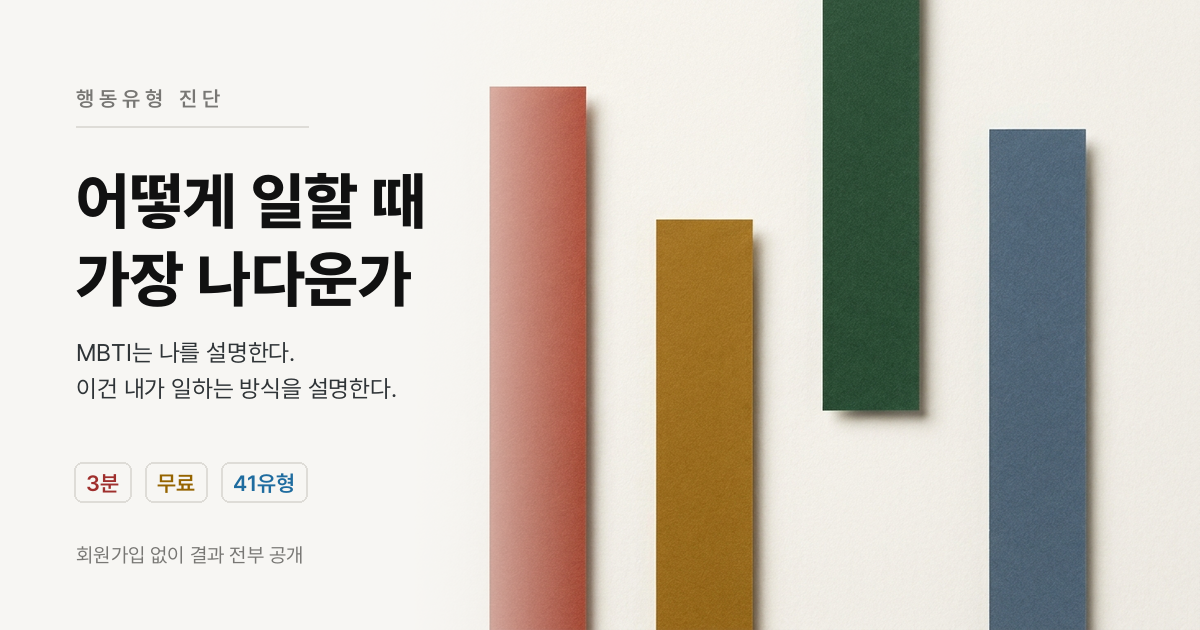
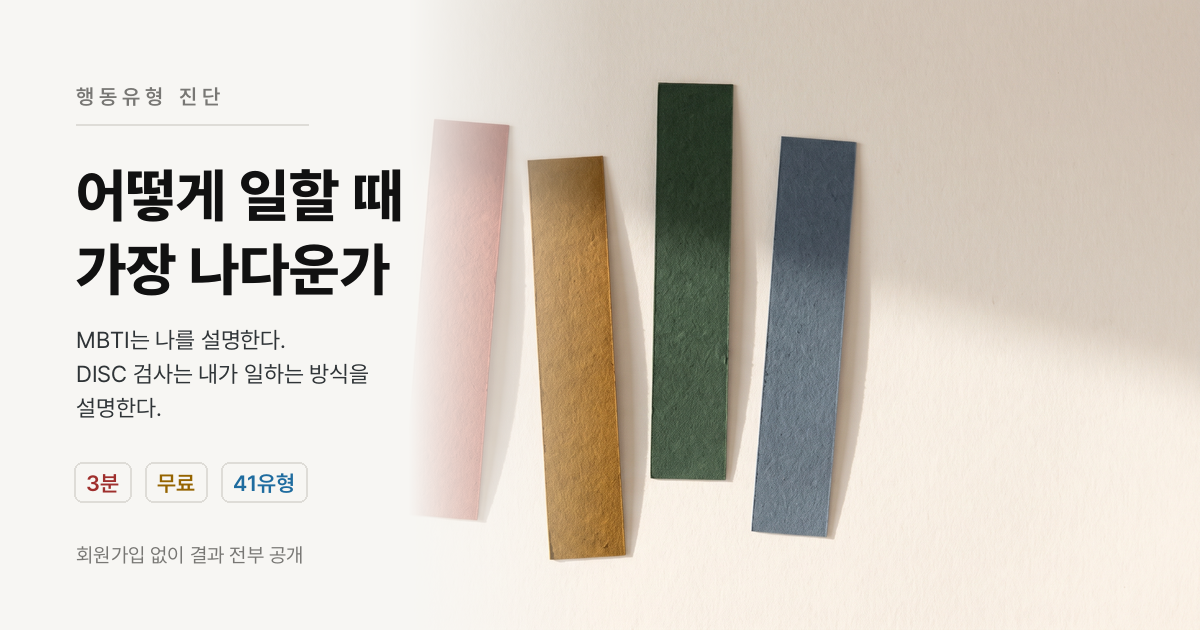
v3 — 헤드라인 수정 · 히어로/요인 이미지 5종 · 모바일 레이아웃

diff --git a/index.html b/index.html
@@ -25,7 +25,7 @@
   --Dbg:#FDEBEC; --Ibg:#FBF3DB; --Sbg:#EDF3EC; --Cbg:#E1F3FE;
   --sh:0 0 0 1px rgba(0,0,0,.05),0 1px 1px -.5px rgba(0,0,0,.06),0 3px 3px -1.5px rgba(0,0,0,.06),0 6px 6px -3px rgba(0,0,0,.06),0 12px 12px -6px rgba(0,0,0,.05);
 }
-*{box-sizing:border-box;margin:0;padding:0;-webkit-tap-highlight-color:transparent}
+*{box-sizing:border-box;margin:0;padding:0;-webkit-tap-highlight-color:transparent;word-break:keep-all}
 html{scroll-behavior:smooth}
 body{background:var(--canvas);color:var(--ink);padding:0 20px 90px;
   font-family:Pretendard,-apple-system,BlinkMacSystemFont,system-ui,sans-serif;
@@ -148,12 +148,60 @@ ul.pts li::before{content:"";width:5px;height:5px;border-radius:50%;background:v
 canvas#shot{display:none}
 .pr{display:none}
 
+/* ── 이미지 ── */
+.hero{margin:34px 0 0}
+.hero>img{width:100%;height:auto;display:block;border-radius:14px;border:1px solid var(--line);
+  background:#EFEDE8;aspect-ratio:16/9;object-fit:cover}
+.hero figcaption{margin-top:11px;font-size:12px;color:var(--sub);letter-spacing:-.01em}
+.rband{position:relative;margin:0 0 22px;border-radius:12px;overflow:hidden;
+  border:1px solid var(--line);background:#EFEDE8;aspect-ratio:21/9}
+.rband img{width:100%;height:100%;object-fit:cover;display:block}
+.rbandtag{position:absolute;left:16px;bottom:14px;background:rgba(255,255,255,.92);
+  border:1px solid rgba(0,0,0,.06);border-radius:999px;padding:6px 14px;
+  font-size:12px;font-weight:800;letter-spacing:-.01em;backdrop-filter:blur(6px)}
+
+/* ── 모바일 ── */
+@media(max-width:480px){
+  body{padding:0 18px 80px}
+  #intro{padding:52px 0 0}
+  h1{font-size:27px;line-height:1.32;letter-spacing:-.03em}
+  .brdesk{display:none}
+  .hero figcaption{font-size:11.5px}
+  .lead{font-size:15.5px;margin-top:18px}
+  .claims{flex-direction:column;padding:16px 0;gap:14px}
+  .claim{flex:none;min-width:0;padding:0;display:flex;align-items:baseline;gap:12px}
+  .claim .n{font-size:17px;flex:0 0 76px}
+  .claim .d{margin-top:0;font-size:12.5px}
+  .hero{margin-top:26px;border-radius:12px}
+  .rband{aspect-ratio:16/9;margin-bottom:18px}
+  .ver{padding:19px 18px;gap:13px}
+  .ver .t{font-size:16.5px}
+  .ver .d{font-size:13px}
+  .sect{margin-top:40px}
+  .qtitle{font-size:18px;margin-top:30px}
+  .opt{padding:12px 12px 12px 16px;gap:8px}
+  .opt .w{font-size:15.5px}
+  .pick button{font-size:12px;padding:8px 9px}
+  .rtype{font-size:34px;letter-spacing:-.035em;line-height:1.16}
+  .rline{font-size:16px}
+  .rbody p{font-size:15px}
+  .card{padding:20px 18px}
+  table{font-size:13px}
+  th,td{padding:10px 3px}
+  .fk{gap:6px}
+  th:nth-child(2),td:nth-child(2),th:nth-child(3),td:nth-child(3){display:none}
+  .kv{flex-direction:column;gap:5px}
+  .kv dt{flex:none}
+  .btnrow{gap:8px}
+  .btn{flex:1 1 46%;padding:13px 12px;font-size:13.5px;text-align:center}
+}
+
 /* ── 인쇄 / PDF ── */
 @media print{
   @page{size:A4;margin:12mm 12mm 13mm}
   html,body{background:#fff;padding:0;font-size:9.8pt}
   .wrap{max-width:none}
-  #intro,#quiz,.btnrow,.adslot,.faq,.noprint{display:none!important}
+  #intro,#quiz,.btnrow,.adslot,.faq,.noprint,.hero,.rband{display:none!important}
   #result{display:block!important;padding:0}
   .pr{display:block}
   .prhead{display:flex;justify-content:space-between;align-items:baseline;
@@ -193,7 +241,12 @@ canvas#shot{display:none}
 <!-- ══════ 인트로 ══════ -->
 <section id="intro">
   <span class="eyebrow">행동유형 진단 · SigmaAd 파일럿</span>
-  <h1>MBTI는 나를 설명한다.<br>이건 내가 <span style="color:var(--C)">일하는 방식</span>을<br>설명한다.</h1>
+  <h1>MBTI는 나를 설명한다.<br>DISC 검사는 내가 <span style="color:var(--C)">일하는 방식</span>을<br class="brdesk">설명한다.</h1>
+  <figure class="hero">
+    <img src="hero.jpg" alt="네 가지 색의 종이 띠" loading="eager" width="1600" height="900">
+    <figcaption>주도 · 사교 · 안정 · 신중 — 비중은 사람마다 다릅니다</figcaption>
+  </figure>
+
   <p class="lead">같은 상황에서 사람마다 먼저 움직이는 방향이 다릅니다. 이 진단은 성격의 좋고 나쁨을 가르지 않고, <b>일할 때 실제로 드러나는 행동 방향</b> 네 가지의 비중을 재어 41개 유형 중 하나로 정리합니다.</p>
 
   <div class="claims">
@@ -267,6 +320,8 @@ canvas#shot{display:none}
     <span class="m" id="prmeta"></span>
   </div>
 
+  <figure class="rband noprint"><img id="rbandimg" src="" alt="" width="1600" height="686"><span class="rbandtag" id="rbandtag"></span></figure>
+
   <span class="badge noprint"><span class="dots" id="rdots"></span><span id="rcode"></span></span>
   <h1 class="rtype" id="rname"></h1>
   <p class="rline" id="rline"></p>
@@ -286,7 +341,7 @@ canvas#shot{display:none}
       <thead><tr><th>요인</th><th class="num">최고치</th><th class="num">최소치</th><th class="num">차이</th><th class="num">강도</th></tr></thead>
       <tbody id="tbody"></tbody>
     </table>
-    <p class="gnote" style="border:0;padding-top:10px">강도는 1~7이며 <b>4가 중립대</b>입니다. 5 이상이 뚜렷하게 쓰는 방향, 3 이하는 평소 잘 꺼내지 않는 방향입니다.</p>
+    <p class="gnote" style="border:0;padding-top:10px"><span class="noshow-desktop"></span>강도는 1~7이며 <b>4가 중립대</b>입니다. 5 이상이 뚜렷하게 쓰는 방향, 3 이하는 평소 잘 꺼내지 않는 방향입니다.</p>
   </div>
 
   <div class="sect two">
@@ -1425,6 +1480,11 @@ function finish(){
   const T=TYPES[R.code];
   quiz.style.display="none"; result.style.display="block"; window.scrollTo(0,0);
 
+  const lead = R.flat ? "ALL" : R.code.split("/")[0];
+  rbandimg.src = "f_"+lead+".jpg";
+  rbandimg.alt = R.flat ? "네 방향 균형" : FLONG[lead];
+  rbandtag.textContent = R.flat ? "네 방향 균형" : "주 성향  "+FLONG[lead];
+  rbandtag.style.color = R.flat ? "#111" : FCOL[lead];
   const CODE = R.flat ? F : R.code.split("/");
   rcode.textContent = R.flat ? "네 방향 균형" : CODE.map(f=>f+" "+FNAME[f]).join("  ·  ");
   rdots.innerHTML = CODE.map(f=>`<i style="background:${FCOL[f]}"></i>`).join("");
